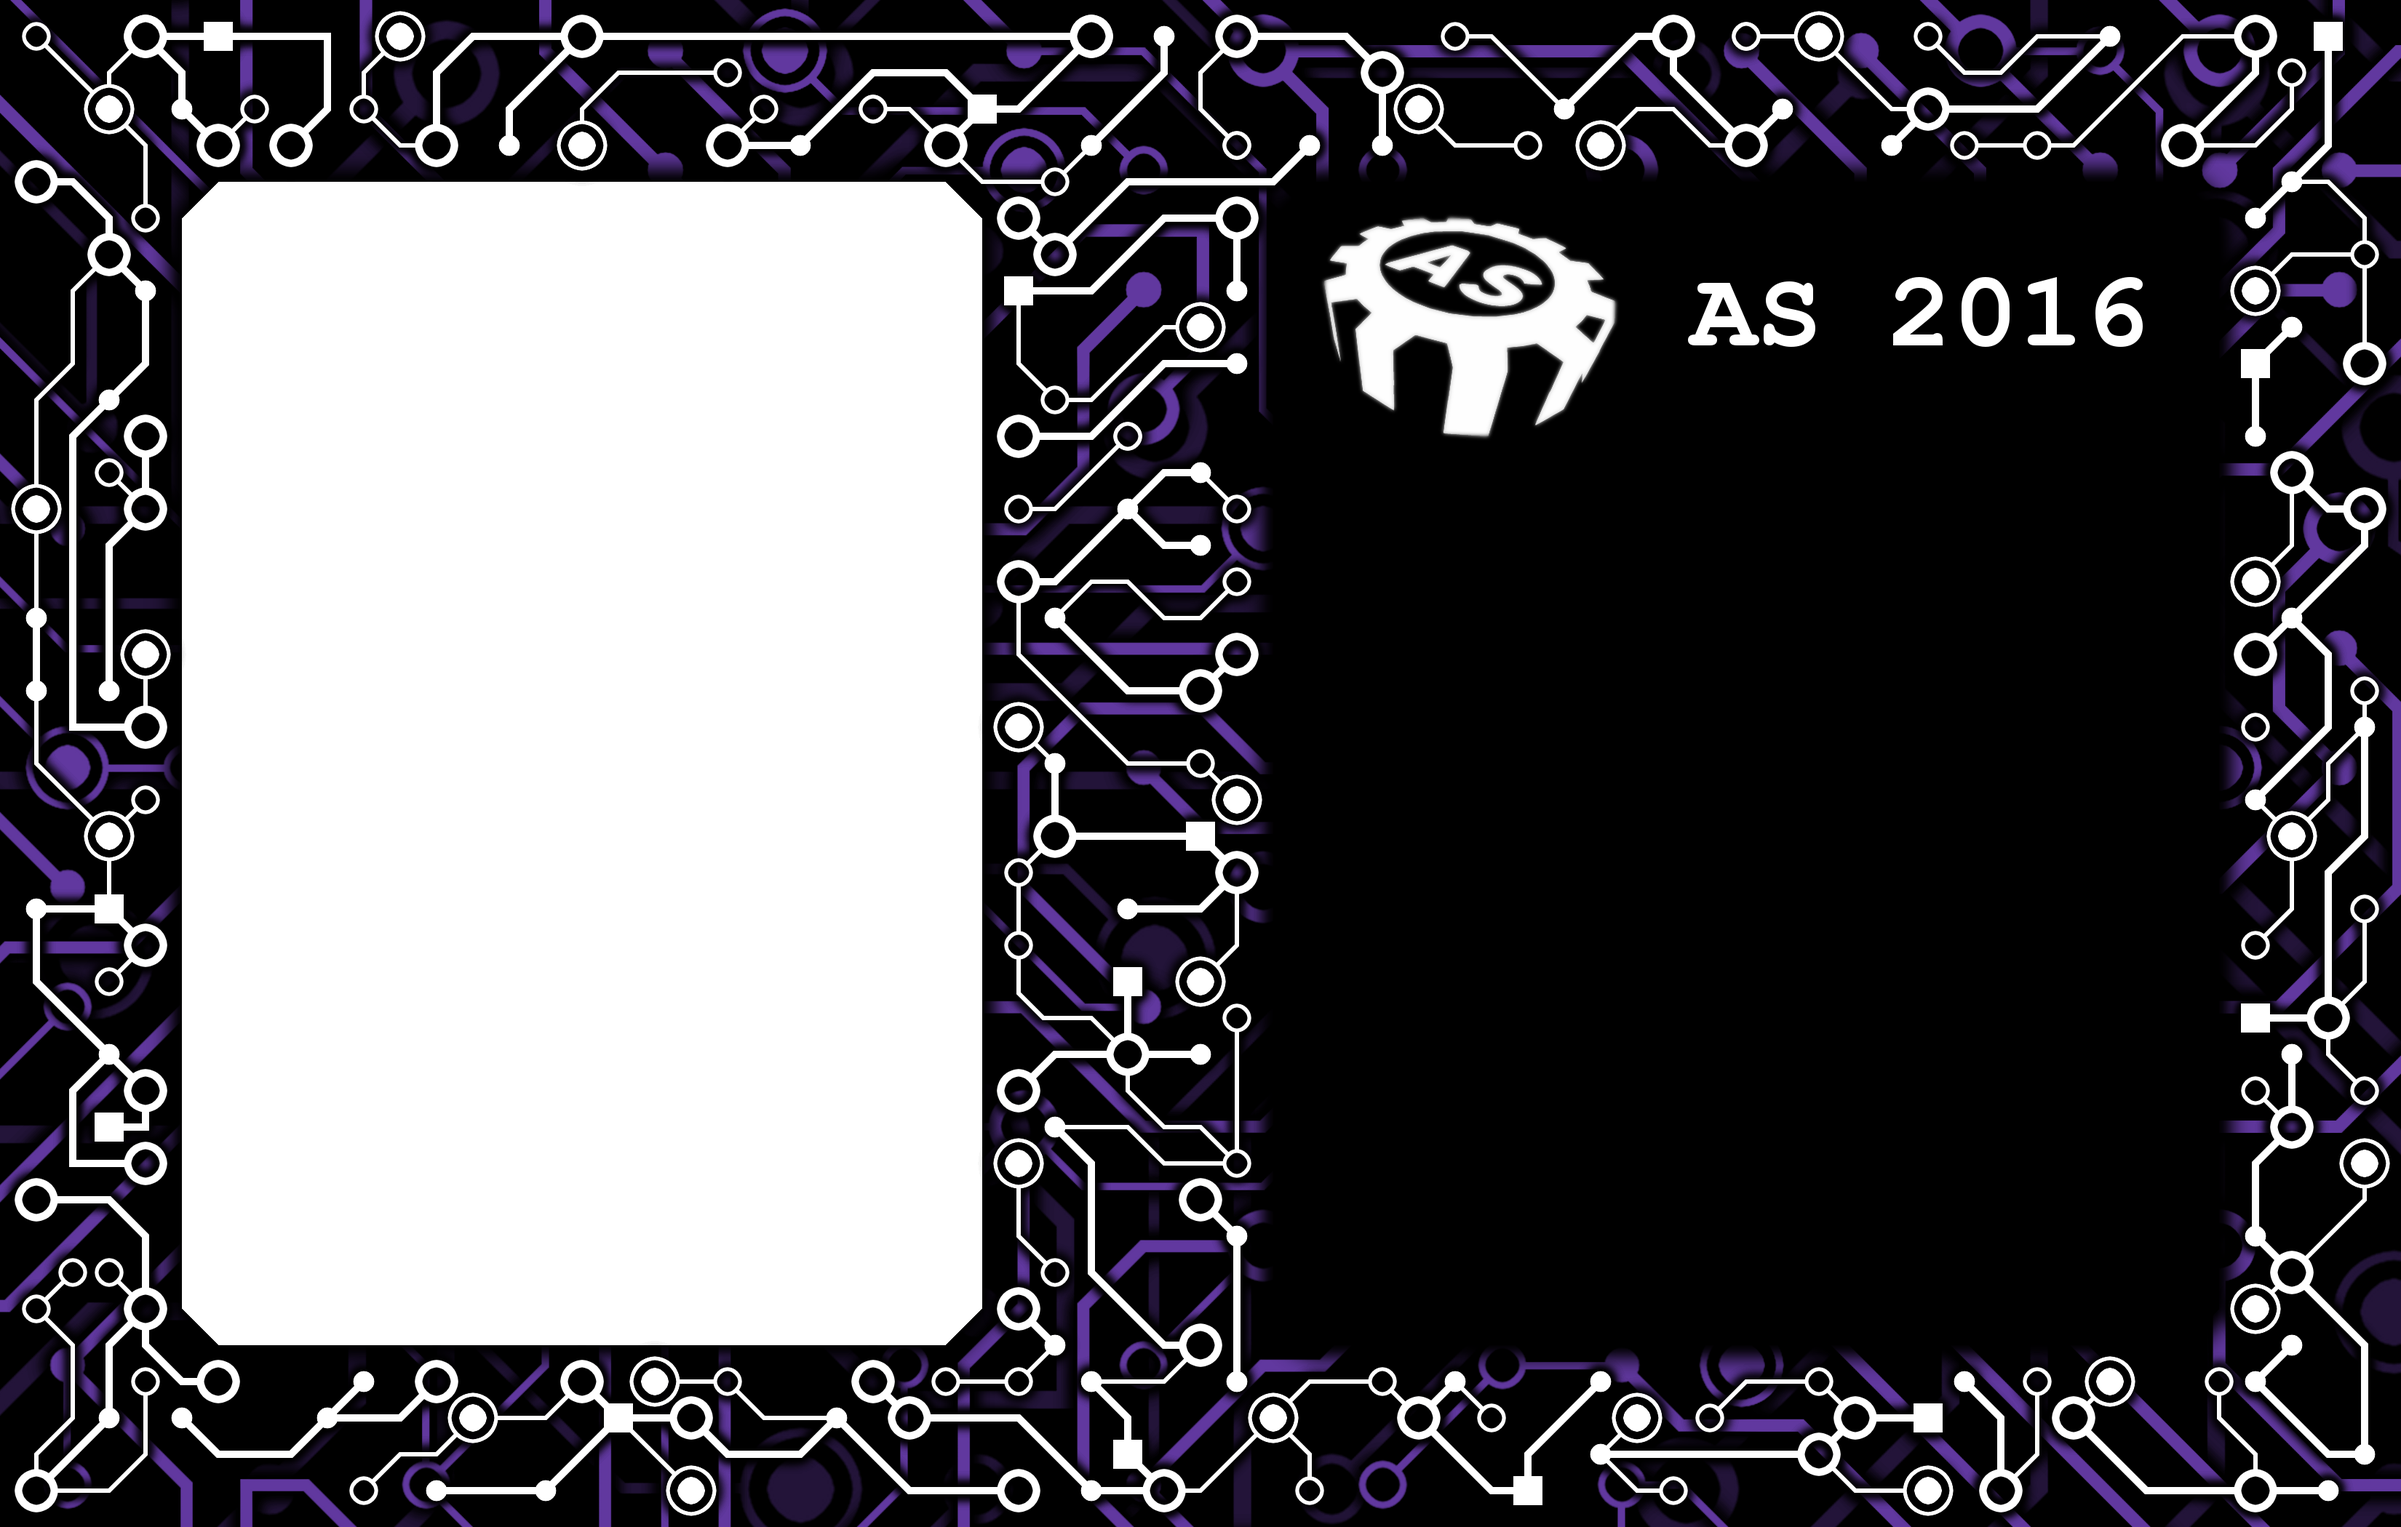
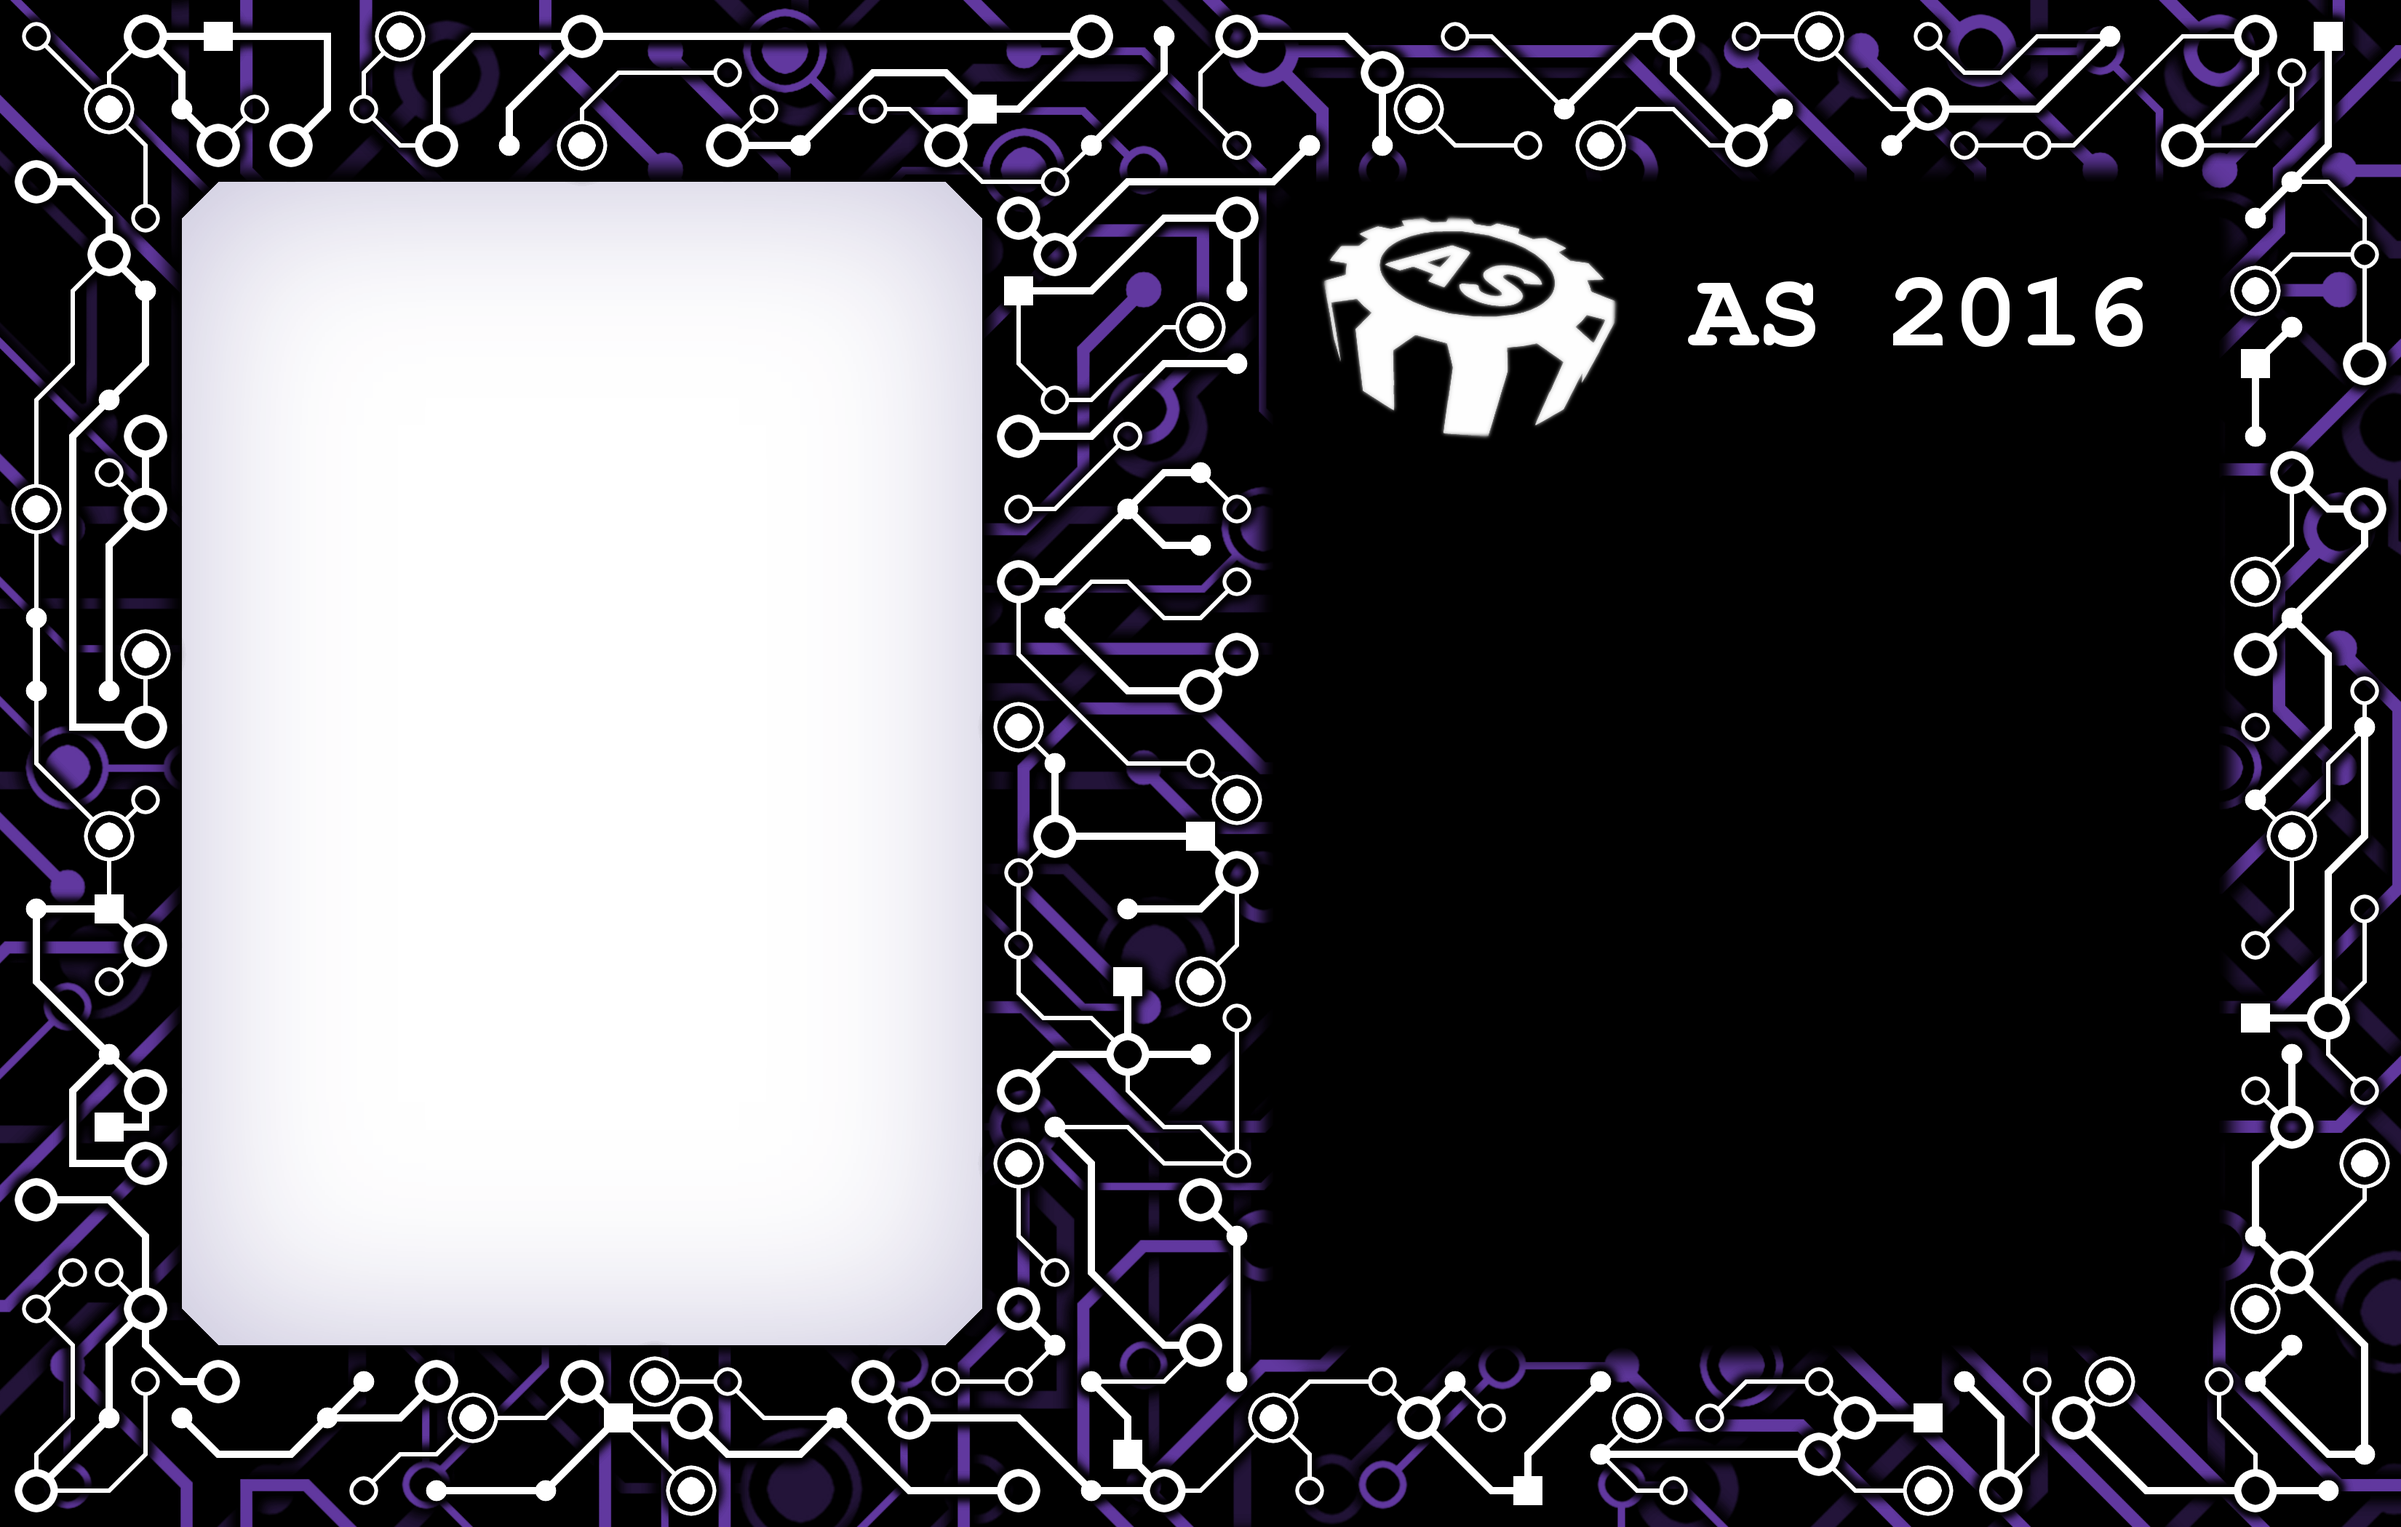
Final modifications for 2016

Changed region(s): [[0.0624, 0.0929, 0.437, 0.8976]]

diff --git a/src/main.cpp b/src/main.cpp
@@ -9,6 +9,9 @@
 #include <io.h>
 
 
+#define BLEND(C1, C2, B) sf::Color(C1.r+B*(C2.r-C1.r), C1.g+B*(C2.g-C1.g), C1.b+B*(C2.b-C1.b), C1.a+B*(C2.a-C1.a))
+
+
 using namespace std;
 
 
@@ -41,29 +44,46 @@ void readJabas(std::vector<JabaInfo>& jabas, const std::string& fileName)
 
     wifs.imbue(locale(wifs.getloc(), new codecvt_utf8<wchar_t, 0x10ffff, consume_header>()));
     while(getline(wifs, line)) {
-        wcout << ++c << L'\t' << line << L'\n';
+        //wcout << ++c << L'\t' << line << L'\n';
 
         if (line[0] == '*') {
             jabas.push_back(info);
             info.mainNakkis.clear();
             info.secondaryNakkis.clear();
             r = 0;
+            secondary = false;
+            cout << "" << endl;
             continue;
         }
         else if (line[0] == '&') {
             secondary = true;
+            wcout << "Secondary Nakkis:" << endl;
             continue;
         }
         switch(r) {
-        case 0:     info.name = line;               break;
-        case 1:     info.tg = line;                 break;
-        case 2:     info.irc = line;                break;
-        case 3:     info.imageFileName = L"res/" + line;      break;
+        case 0:
+            info.name = line;
+            wcout << info.name << endl;
+        break;
+        case 1:
+            info.tg = line;
+            wcout << "TG: @" << info.tg << endl;
+        break;
+        case 2:
+            info.irc = line;
+            wcout << "IRC: " << info.irc << endl;
+        break;
+        case 3:
+            info.imageFileName = L"res/" + line;
+            wcout << "Main Nakkis:" << endl;
+        break;
         default:
         if (secondary)
             info.secondaryNakkis.push_back(line);
         else
             info.mainNakkis.push_back(line);
+
+        wcout << "  " << line << endl;
         break;
         }
         ++r;
@@ -152,12 +172,31 @@ sf::Image resizeImage(sf::Image& srcImg, float width, float height) {
     sf::Image image;
     image.create(width, height);
     auto s = srcImg.getSize();
-    float xs = width/s.x;
-    float ys = height/s.y;
+    float xs = s.x/width;
+    float ys = s.y/height;
 
-    for (auto y=0u; y<height; ++y) {
-        for (auto x=0u; x<width; ++x) {
-            image.setPixel(x, y, srcImg.getPixel(x*xs, y*ys));
+    for (auto y=0u; y<(unsigned)height; ++y) {
+        for (auto x=0u; x<(unsigned)width; ++x) {
+            float xd = x*xs;
+            float yd = y*ys;
+            int xi = (int)xd;
+            int yi = (int)yd;
+            int xi2 = xi+1;
+            if (xi2 >= s.x) xi2 = xi;
+            int yi2 = yi+1;
+            if (yi2 >= s.y) yi2 = yi;
+            xd -= xi;
+            yd -= yi;
+
+            auto p00 = srcImg.getPixel(xi, yi);
+            auto p10 = srcImg.getPixel(xi2, yi);
+            auto p01 = srcImg.getPixel(xi, yi2);
+            auto p11 = srcImg.getPixel(xi2, yi2);
+
+            auto p0 = BLEND(p00, p10, xd);
+            auto p1 = BLEND(p01, p11, xd);
+
+            image.setPixel(x, y, BLEND(p0, p1, yd));
         }
     }
 
@@ -177,6 +216,11 @@ int main(void) {
     sf::Image crtmaskImg;
     crtmaskImg.loadFromFile("crtmask.png");
 
+    sf::Image combinedImg;
+    combinedImg.create(6600, 4200);
+    int combinedId = 0;
+    int laystakeId=0;
+
     for (auto& jaba : jabas) {
         sf::RenderTexture destTex;
         destTex.create(3300, 2100);
@@ -190,6 +234,7 @@ int main(void) {
         sf::Image jabaImg;
         jabaImg.loadFromFile(sf::String(jaba.imageFileName));
         auto s = jabaImg.getSize();
+
         float jr = (float)s.x/(float)s.y;
         int jabaSizeX = 0, jabaSizeY = 0;
         if (jr >= 1100.0f/1600.0f) {
@@ -214,16 +259,56 @@ int main(void) {
                 if (jabaY >= 0 && jabaY < jabaSizeY && jabaX >= 0 && jabaX < jabaSizeX)
                     pJaba = jabaImg.getPixel(jabaX, jabaY);
 
-                destImg.setPixel(x, y, pJaba);
                 if (pBorder.a > 0)
-                    destImg.setPixel(x, y, (pBorder + p)*pCrtmask);
+                    destImg.setPixel(x, y, BLEND(pJaba, ((pBorder + p)*pCrtmask), (pBorder.a/255.0f)));
+                else
+                    destImg.setPixel(x, y, pJaba);
             }
         }
 
         std::basic_stringstream<wchar_t> ss;
-        ss << jaba.name << L".png";
+        ss << "laystakkeet/" << jaba.name << L".png";
         destImg.saveToFile(sf::String(ss.str()));
+
+        int xx;
+        int yy;
+        switch (laystakeId++) {
+        case 0:
+        {
+            xx = 0;
+            yy = 0;
+            if (combinedId++ > 0) {
+                stringstream ss;
+                ss << "laystakkeet/laystakkeet" << combinedId-1 << ".png";
+                combinedImg.saveToFile(ss.str());
+            }
+        }
+        break;
+        case 1:
+            xx = 3300;
+            yy = 0;
+        break;
+        case 2:
+            xx = 0;
+            yy = 2100;
+        break;
+        case 3:
+            xx = 3300;
+            yy = 2100;
+            laystakeId = 0;
+        break;
+        }
+
+        for (auto jj=0; jj<2100; ++jj) {
+            for (auto ii=0; ii<3300; ++ii) {
+                combinedImg.setPixel(ii+xx, jj+yy, destImg.getPixel(ii, jj));
+            }
+        }
     }
+
+    stringstream ss;
+    ss << "laystakkeet/laystakkeet" << combinedId << ".png";
+    combinedImg.saveToFile(ss.str());
 
     return 0;
 }
